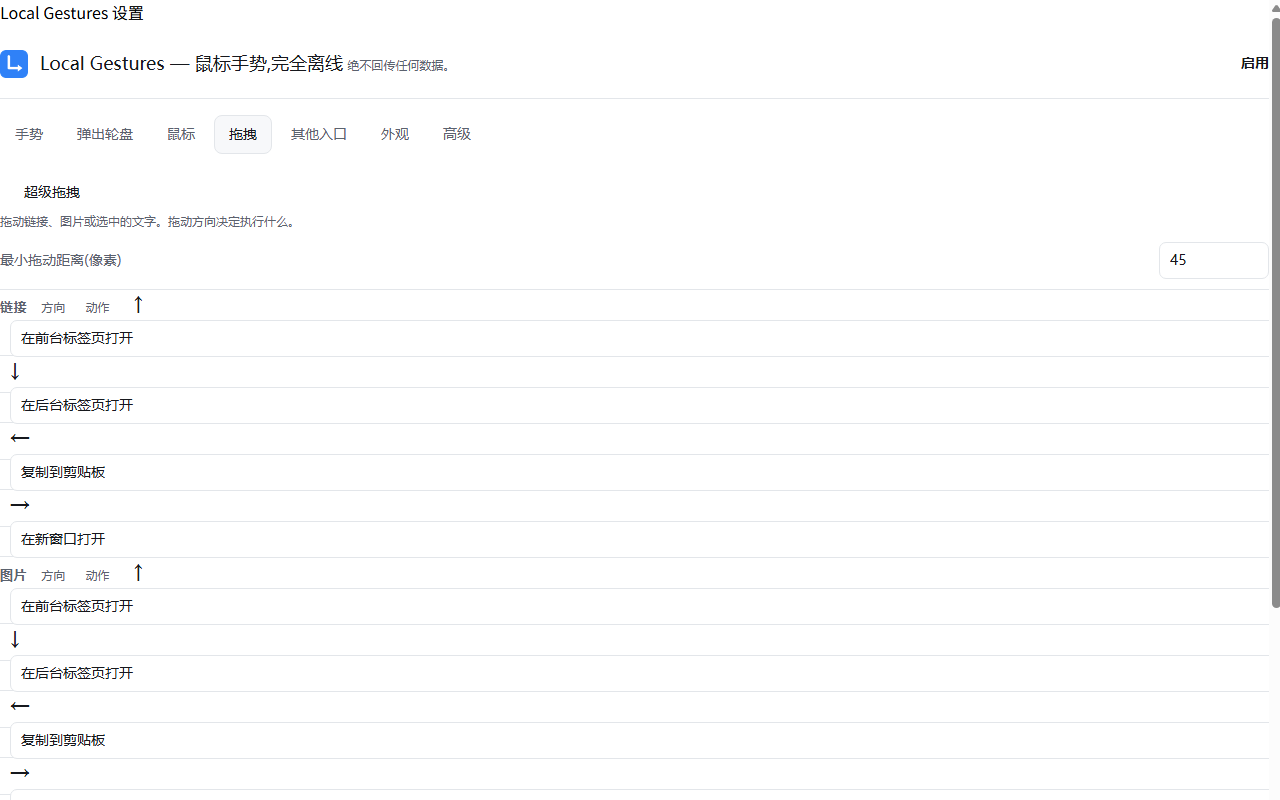
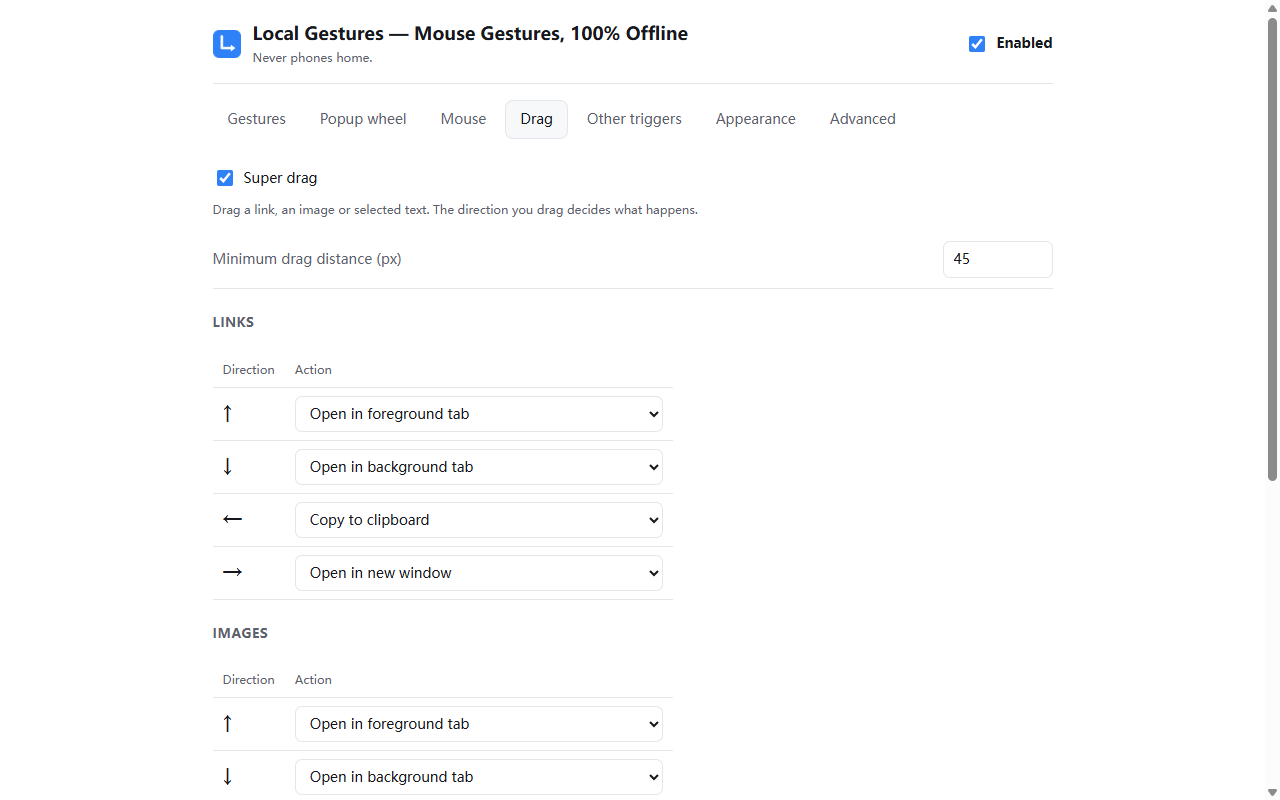
演示页支持英文;重出商店截图;修复右键菜单导致的偶发测试失败

diff --git a/tools/fixtures/demo.html b/tools/fixtures/demo.html
@@ -36,116 +36,132 @@
 </head>
 <body>
 <header>
-  <h1>Local Gestures — 功能演示</h1>
-  <p>在本页任意空白处按住<strong>鼠标右键</strong>画手势即可。松开右键执行,不弹右键菜单。</p>
+  <h1 data-en="Local Gestures — Live demo">Local Gestures — 功能演示</h1>
+  <p data-en="Hold the <strong>right mouse button</strong> anywhere on this page and draw. Release to run — no context menu appears.">在本页任意空白处按住<strong>鼠标右键</strong>画手势即可。松开右键执行,不弹右键菜单。</p>
 </header>
 
 <main>
-  <h2>① 笔画手势 · 在下面这块区域画</h2>
-  <div class="zone">按住右键,在这里画 ← 或 ↓→</div>
+  <h2 data-en="① Stroke gestures · draw inside the area below">① 笔画手势 · 在下面这块区域画</h2>
+  <div class="zone" data-en="Hold the right button and draw ← or ↓→ here">按住右键,在这里画 ← 或 ↓→</div>
   <div class="card">
     <table>
-      <thead><tr><th>手势</th><th>动作</th><th>怎么画</th></tr></thead>
+      <thead><tr><th data-en="Gesture">手势</th><th data-en="Action">动作</th><th data-en="How to draw">怎么画</th></tr></thead>
       <tbody>
-        <tr><td class="g">←</td><td>后退</td><td>按住右键向左划</td></tr>
-        <tr><td class="g">→</td><td>前进</td><td>按住右键向右划</td></tr>
-        <tr><td class="g">↑</td><td>滚到顶部</td><td>向上划</td></tr>
-        <tr><td class="g">↓</td><td>滚到底部</td><td>向下划</td></tr>
-        <tr><td class="g">↑↓</td><td>刷新</td><td>先上后下</td></tr>
-        <tr><td class="g">↓↑</td><td>恢复关闭的标签页</td><td>先下后上</td></tr>
-        <tr><td class="g">↓→</td><td>关闭标签页</td><td>先下后右(经典)</td></tr>
-        <tr><td class="g">↑→</td><td>新建标签页</td><td>先上后右</td></tr>
-        <tr><td class="g">←→</td><td>下一个标签页</td><td>先左后右</td></tr>
-        <tr><td class="g">→←</td><td>上一个标签页</td><td>先右后左</td></tr>
-        <tr><td class="g">↓←</td><td>复制标签页</td><td>先下后左</td></tr>
-        <tr><td class="g">↑←</td><td>固定 / 取消固定</td><td>先上后左</td></tr>
-        <tr><td class="g">→↓</td><td>静音 / 取消静音</td><td>先右后下</td></tr>
-        <tr><td class="g">←↑</td><td>重置缩放</td><td>先左后上</td></tr>
-        <tr><td class="g">→↑</td><td>切换全屏</td><td>先右后上</td></tr>
-        <tr><td class="g">←↓</td><td>新建窗口</td><td>先左后下</td></tr>
-        <tr><td class="g">→↑←</td><td>关闭其他标签页</td><td>三段手势</td></tr>
-        <tr><td class="g">←↓→</td><td>查看网页源码</td><td>三段手势</td></tr>
-        <tr><td class="g">↑↓↑</td><td>强制刷新</td><td>三段手势</td></tr>
+        <tr><td class="g">←</td><td data-en="Back">后退</td><td data-en="hold right, drag left">按住右键向左划</td></tr>
+        <tr><td class="g">→</td><td data-en="Forward">前进</td><td data-en="hold right, drag right">按住右键向右划</td></tr>
+        <tr><td class="g">↑</td><td data-en="Scroll to top">滚到顶部</td><td data-en="drag up">向上划</td></tr>
+        <tr><td class="g">↓</td><td data-en="Scroll to bottom">滚到底部</td><td data-en="drag down">向下划</td></tr>
+        <tr><td class="g">↑↓</td><td data-en="Reload">刷新</td><td data-en="up then down">先上后下</td></tr>
+        <tr><td class="g">↓↑</td><td data-en="Reopen closed tab">恢复关闭的标签页</td><td data-en="down then up">先下后上</td></tr>
+        <tr><td class="g">↓→</td><td data-en="Close tab">关闭标签页</td><td data-en="down then right (the classic)">先下后右(经典)</td></tr>
+        <tr><td class="g">↑→</td><td data-en="New tab">新建标签页</td><td data-en="up then right">先上后右</td></tr>
+        <tr><td class="g">←→</td><td data-en="Next tab">下一个标签页</td><td data-en="left then right">先左后右</td></tr>
+        <tr><td class="g">→←</td><td data-en="Previous tab">上一个标签页</td><td data-en="right then left">先右后左</td></tr>
+        <tr><td class="g">↓←</td><td data-en="Duplicate tab">复制标签页</td><td data-en="down then left">先下后左</td></tr>
+        <tr><td class="g">↑←</td><td data-en="Pin / unpin">固定 / 取消固定</td><td data-en="up then left">先上后左</td></tr>
+        <tr><td class="g">→↓</td><td data-en="Mute / unmute">静音 / 取消静音</td><td data-en="right then down">先右后下</td></tr>
+        <tr><td class="g">←↑</td><td data-en="Reset zoom">重置缩放</td><td data-en="left then up">先左后上</td></tr>
+        <tr><td class="g">→↑</td><td data-en="Toggle fullscreen">切换全屏</td><td data-en="right then up">先右后上</td></tr>
+        <tr><td class="g">←↓</td><td data-en="New window">新建窗口</td><td data-en="left then down">先左后下</td></tr>
+        <tr><td class="g">→↑←</td><td data-en="Close other tabs">关闭其他标签页</td><td data-en="three strokes">三段手势</td></tr>
+        <tr><td class="g">←↓→</td><td data-en="View page source">查看网页源码</td><td data-en="three strokes">三段手势</td></tr>
+        <tr><td class="g">↑↓↑</td><td data-en="Hard reload">强制刷新</td><td data-en="three strokes">三段手势</td></tr>
       </tbody>
     </table>
-    <p class="tip">画的时候会有蓝色轨迹,底部会实时显示将要执行的动作名。画到一半发现画错了,
+    <p class="tip" data-en="A blue trail follows the cursor and the action about to run is named at the bottom of the screen. Changed your mind mid-stroke? Scribble into a shape nothing is bound to and release — the hint turns red and nothing happens.">画的时候会有蓝色轨迹,底部会实时显示将要执行的动作名。画到一半发现画错了,
       随便乱划成一个没绑定的形状再松手即可 —— 提示会变红,不会执行任何动作。</p>
   </div>
 
-  <h2>② 摇杆手势 · 不用画</h2>
+  <h2 data-en="② Rocker gestures · nothing to draw">② 摇杆手势 · 不用画</h2>
   <div class="card">
     <table>
       <tbody>
-        <tr><td class="g">R→L</td><td><strong>按住右键,点一下左键</strong> → 后退</td></tr>
-        <tr><td class="g">L→R</td><td><strong>按住左键,点一下右键</strong> → 前进</td></tr>
+        <tr><td class="g">R→L</td><td data-en="<strong>Hold right, click left</strong> → back">
+          <strong>按住右键,点一下左键</strong> → 后退</td></tr>
+        <tr><td class="g">L→R</td><td data-en="<strong>Hold left, click right</strong> → forward">
+          <strong>按住左键,点一下右键</strong> → 前进</td></tr>
       </tbody>
     </table>
-    <p class="tip">这是最快的翻页方式,一只手就能连点。</p>
+    <p class="tip" data-en="The fastest way to move through history — one hand, repeatable.">这是最快的翻页方式,一只手就能连点。</p>
   </div>
 
-  <h2>③ 滚轮手势</h2>
+  <h2 data-en="③ Wheel gestures">③ 滚轮手势</h2>
   <div class="card">
-    <p><strong>按住右键不放,滚动滚轮</strong> —— 向上滚切上一个标签页,向下滚切下一个。</p>
-    <p class="tip">多开几个标签页再试,效果最明显。</p>
+    <p data-en="<strong>Hold the right button and turn the wheel</strong> — up switches to the previous tab, down to the next."><strong>按住右键不放,滚动滚轮</strong> —— 向上滚切上一个标签页,向下滚切下一个。</p>
+    <p class="tip" data-en="Open a few tabs first to see it.">多开几个标签页再试,效果最明显。</p>
   </div>
 
-  <h2>④ 超级拖拽 · 方向决定行为</h2>
+  <h2 data-en="④ Super drag · the direction picks the action">④ 超级拖拽 · 方向决定行为</h2>
   <div class="row2">
     <div class="drag">
-      <p><strong>拖这个链接:</strong></p>
+      <p data-en="<strong>Drag this link:</strong>"><strong>拖这个链接:</strong></p>
       <p><a href="https://example.com/">example.com</a></p>
-      <p class="tip">上=前台打开 · 下=后台打开 · 左=复制网址 · 右=新窗口打开</p>
+      <p class="tip" data-en="up = open · down = open in background · left = copy URL · right = open in a new window">上=前台打开 · 下=后台打开 · 左=复制网址 · 右=新窗口打开</p>
     </div>
     <div class="drag">
-      <p><strong>拖这张图:</strong></p>
-      <p><img src="pic.png" alt="演示图片"></p>
-      <p class="tip">上=前台打开 · 下=后台打开 · 左=复制地址 · 右=下载(需授权)</p>
+      <p data-en="<strong>Drag this image:</strong>"><strong>拖这张图:</strong></p>
+      <p><img src="pic.png" alt="demo image"></p>
+      <p class="tip" data-en="up = open · down = open in background · left = copy address · right = download (asks permission)">上=前台打开 · 下=后台打开 · 左=复制地址 · 右=下载(需授权)</p>
     </div>
   </div>
   <div class="drag" style="margin-top:16px">
-    <p><strong>选中这段文字然后拖走:</strong>鼠标手势扩展 隐私 开源</p>
-    <p class="tip">上=前台搜索 · 下=后台搜索 · 左=复制 · 右=后台搜索。
+    <p data-en="<strong>Select this text and drag it away:</strong> mouse gestures privacy open source"><strong>选中这段文字然后拖走:</strong>鼠标手势扩展 隐私 开源</p>
+    <p class="tip" data-en="up = search · down = search in background · left = copy · right = search in background. The search uses whatever default engine your browser is set to — this extension contains no search URL of its own.">上=前台搜索 · 下=后台搜索 · 左=复制 · 右=后台搜索。
       搜索用的是你 Chrome 里设的默认搜索引擎,扩展本身不含任何搜索网址。</p>
   </div>
 
-  <h2>⑤ 弹出轮盘(默认关闭,去设置里打开)</h2>
+  <h2 data-en="⑤ Popup wheel (off by default — enable it in settings)">⑤ 弹出轮盘(默认关闭,去设置里打开)</h2>
   <div class="card">
-    <p><strong>按住右键别动</strong>,约 0.35 秒后光标周围会展开 8 个动作,移向其中一个松手即可。</p>
-    <p class="tip">松手时如果还在圆心附近,就是取消,什么都不会发生。</p>
+    <p data-en="<strong>Hold the right button still</strong> and after about 0.35 s eight actions fan out around the cursor. Move onto one and release."><strong>按住右键别动</strong>,约 0.35 秒后光标周围会展开 8 个动作,移向其中一个松手即可。</p>
+    <p class="tip" data-en="Release near the centre and nothing happens — that is the cancel.">松手时如果还在圆心附近,就是取消,什么都不会发生。</p>
   </div>
 
-  <h2>⑥ 其他入口</h2>
+  <h2 data-en="⑥ Other triggers">⑥ 其他入口</h2>
   <div class="card">
     <table>
       <tbody>
-        <tr><td><strong>双击</strong></td><td>页面空白处双击执行动作(默认关闭)。双击文字仍然是选词,不会误触发。</td></tr>
-        <tr><td><strong>简单拖拽</strong></td><td>空白处按左键直线拖动(默认关闭,因为会和选文字冲突)。</td></tr>
-        <tr><td><strong>快捷键</strong></td><td><code>Alt+Shift+1~4</code>,四个槽位各绑一个动作。</td></tr>
-        <tr><td><strong>右键菜单</strong></td><td>可把常用动作加进右键菜单(默认关闭)。</td></tr>
-        <tr><td><strong>工具栏图标</strong></td><td>点击执行指定动作,默认是打开设置。</td></tr>
-        <tr><td><strong>触摸屏</strong></td><td>双指手势,和鼠标共用同一张手势表(默认关闭)。</td></tr>
+        <tr><td data-en="<strong>Double click</strong>"><strong>双击</strong></td><td data-en="Runs an action when you double-click empty page area (off by default). Double-clicking text still selects the word.">页面空白处双击执行动作(默认关闭)。双击文字仍然是选词,不会误触发。</td></tr>
+        <tr><td data-en="<strong>Simple drag</strong>"><strong>简单拖拽</strong></td><td data-en="Straight left-button drag on empty area (off by default — it competes with selecting text).">空白处按左键直线拖动(默认关闭,因为会和选文字冲突)。</td></tr>
+        <tr><td data-en="<strong>Keyboard shortcuts</strong>"><strong>快捷键</strong></td><td data-en="<code>Alt+Shift+1~4</code> — four slots, one action each."><code>Alt+Shift+1~4</code>,四个槽位各绑一个动作。</td></tr>
+        <tr><td data-en="<strong>Context menu</strong>"><strong>右键菜单</strong></td><td data-en="Chosen actions can be added to the right-click menu (off by default).">可把常用动作加进右键菜单(默认关闭)。</td></tr>
+        <tr><td data-en="<strong>Toolbar icon</strong>"><strong>工具栏图标</strong></td><td data-en="Clicking it runs an action of your choice; opens settings by default.">点击执行指定动作,默认是打开设置。</td></tr>
+        <tr><td data-en="<strong>Touch screen</strong>"><strong>触摸屏</strong></td><td data-en="Two-finger gestures, sharing the same gesture table as the mouse (off by default).">双指手势,和鼠标共用同一张手势表(默认关闭)。</td></tr>
       </tbody>
     </table>
   </div>
 
-  <h2>⑦ 隐私这块可以自己验证</h2>
+  <h2 data-en="⑦ The privacy claim is yours to check">⑦ 隐私这块可以自己验证</h2>
   <div class="card">
-    <p>整个扩展没有任何联网代码。在源码目录里跑这一行就能自己确认:</p>
+    <p data-en="There is no networking code in the extension at all. One command in the source directory confirms it:">整个扩展没有任何联网代码。在源码目录里跑这一行就能自己确认:</p>
     <p><code>grep -rn "fetch(\|XMLHttpRequest\|WebSocket\|sendBeacon" src/</code></p>
-    <p class="tip">应该只匹配到注释里那句「绝不联网」的声明。权限里也没有
+    <p class="tip" data-en="The only match should be the comment stating that there are none. The manifest has no <code>host_permissions</code>, no <code>webRequest</code>, no <code>history</code>. Downloads and bookmarks are optional permissions, not requested at install — if you never use them, you are never asked.">应该只匹配到注释里那句「绝不联网」的声明。权限里也没有
       <code>host_permissions</code>、没有 <code>webRequest</code>、没有 <code>history</code>。
       下载和书签是可选权限,默认不申请,你不用就永远不会被要。</p>
   </div>
 
-  <h2>下面是填充内容,用来测试滚动手势</h2>
+  <h2 data-en="Filler below, so the scroll gestures have somewhere to go">下面是填充内容,用来测试滚动手势</h2>
   <div class="filler" id="filler"></div>
 </main>
 
 <script>
-  const f = document.getElementById('filler');
-  for (let i = 1; i <= 60; i++) {
-    const p = document.createElement('p');
-    p.textContent = '第 ' + i + ' 行 —— 往下拉,然后按住右键向上划试试「滚到顶部」。';
+  // ?lang=en swaps every data-en string in place. Kept as attributes on the
+  // real elements rather than a second copy of the page, so the two languages
+  // cannot drift into showing different features.
+  var EN = new URLSearchParams(location.search).get('lang') === 'en';
+  if (EN) {
+    document.documentElement.lang = 'en';
+    document.title = 'Local Gestures — Live demo';
+    document.querySelectorAll('[data-en]').forEach(function (el) {
+      el.innerHTML = el.getAttribute('data-en');
+    });
+  }
+
+  var f = document.getElementById('filler');
+  for (var i = 1; i <= 60; i++) {
+    var p = document.createElement('p');
+    p.textContent = EN
+      ? 'Line ' + i + ' — scroll down, then hold right and drag up for "scroll to top".'
+      : '第 ' + i + ' 行 —— 往下拉,然后按住右键向上划试试「滚到顶部」。';
     f.appendChild(p);
   }
 </script>

diff --git a/tools/manual_check.py b/tools/manual_check.py
@@ -1,0 +1,98 @@
+# -*- coding: utf-8 -*-
+"""Open a browser with the extension loaded, for the checks in MANUAL-CHECKS.md.
+
+Not driven by Playwright — Playwright owns the browser process it launches and
+kills it when the script ends, which is the opposite of what is wanted here.
+So the binary is started directly and the script just keeps the local test
+page served until the window is closed.
+
+The browser is Playwright's Chromium rather than the installed Chrome because
+Chrome 137 dropped --load-extension and Chrome 150 ignores it even with
+--enable-unsafe-extension-debugging (verified: developerPrivate reports no
+extensions installed). That leaves exactly one browser that can still load an
+unpacked extension without a manual click-through.
+
+The profile is kept between runs, so permissions granted and settings changed
+during a check session are still there next time.
+"""
+import subprocess
+import sys
+import threading
+from functools import partial
+from http.server import SimpleHTTPRequestHandler, ThreadingHTTPServer
+from pathlib import Path
+
+from playwright.sync_api import sync_playwright
+
+sys.stdout.reconfigure(encoding="utf-8")
+
+HERE = Path(__file__).parent
+EXT = HERE.parent
+WWW = HERE / "fixtures"
+PROFILE = Path.home() / ".local-gestures-manual-profile"
+
+
+class Quiet(SimpleHTTPRequestHandler):
+    def end_headers(self):
+        self.send_header("Cache-Control", "no-store")
+        super().end_headers()
+
+    def log_message(self, *a):
+        pass
+
+
+srv = ThreadingHTTPServer(("127.0.0.1", 0), partial(Quiet, directory=str(WWW)))
+threading.Thread(target=srv.serve_forever, daemon=True).start()
+BASE = f"http://127.0.0.1:{srv.server_address[1]}"
+
+with sync_playwright() as p:
+    exe = p.chromium.executable_path
+PROFILE.mkdir(parents=True, exist_ok=True)
+
+print(f"""
+================================================================
+  人工验证浏览器已启动 —— 扩展已加载,配置会保留
+================================================================
+
+演示页:{BASE}/demo.html
+
+要点的 7 项在 MANUAL-CHECKS.md,按顺序:
+
+  1. 新建无痕窗口 —— 唯一可能真是 bug 的一项,先测这个
+       设置页 → 手势 → 把 ↑← 改成「新建无痕窗口」→ 在网页上画
+       期望:弹出无痕窗口,原窗口一切正常,没崩
+
+  2. 打印 —— 绑一个手势到「打印」,画出来
+       期望:弹出打印预览,Esc 关掉后页面正常
+
+  3. 键盘快捷键 —— 直接按 Alt+Shift+1
+       期望:恢复最近关闭的标签页
+
+  4. 右键菜单 —— 设置页 → 其他入口 → 打开「加进右键菜单」,然后点右键
+       期望:出现 Local Gestures 子菜单,点了能执行
+
+  5. 工具栏图标 —— 点右上角拼图 🧩 钉住图标,再点图标
+       期望:打开设置页
+
+  6. 可选权限 —— 设置页 → 高级 → 勾「下载」
+       期望:弹出授权框;允许后把某个拖拽方向设成下载,拖张图试试
+
+  7. 触摸手势 —— 有触摸屏才测
+
+关掉浏览器窗口,这个脚本就结束。
+================================================================
+""")
+
+proc = subprocess.Popen([
+    exe,
+    f"--user-data-dir={PROFILE}",
+    f"--disable-extensions-except={EXT}",
+    f"--load-extension={EXT}",
+    "--no-first-run", "--no-default-browser-check",
+    f"{BASE}/demo.html",
+])
+try:
+    proc.wait()
+finally:
+    srv.shutdown()
+print("浏览器已关闭。")

diff --git a/tools/e2e_test.py b/tools/e2e_test.py
@@ -83,6 +83,22 @@ for old in PROFILE.parent.glob("lg-test-profile-*"):
         shutil.rmtree(old, ignore_errors=True)
 
 
+def dismiss_menu(page):
+    """Close the native context menu before measuring anything else.
+
+    Whenever the extension deliberately stands down (excluded site, master
+    switch off) the browser's own menu opens instead. An open native menu
+    swallows the next mouse press, so the following gesture silently does
+    nothing and the assertion after it fails — intermittently, depending on
+    how fast Escape lands. Escape alone proved not to be enough; a click on
+    empty page area is the belt to that suspenders.
+    """
+    page.keyboard.press("Escape")
+    page.wait_for_timeout(200)
+    page.mouse.click(700, 500)   # the same empty spot every gesture starts from
+    page.wait_for_timeout(300)
+
+
 def gesture(page, path, button="right", step=14):
     """Draw a stroke through the given waypoints."""
     x0, y0 = path[0]
@@ -741,7 +757,7 @@ with sync_playwright() as p:
     page.mouse.up(button="right")
     page.wait_for_timeout(400)
     check("单纯右键仍弹菜单", page.evaluate("() => window.__ctx") == 1)
-    page.keyboard.press("Escape")
+    dismiss_menu(page)
 
     # unbound gesture must do nothing
     page.goto(f"{BASE}/a.html")
@@ -1029,11 +1045,7 @@ with sync_playwright() as p:
     page.wait_for_timeout(600)
     gesture(page, [(700, 500), (350, 500)])
     check("排除列表命中时不响应", page.url.endswith("b.html"), page.url)
-    # When the extension stands down, the real context menu opens — and an
-    # open menu swallows the next mouse press. Dismiss it or the following
-    # assertion measures the menu, not the extension.
-    page.keyboard.press("Escape")
-    page.wait_for_timeout(300)
+    dismiss_menu(page)
 
     print("     [diag] history.length =", page.evaluate("() => history.length"))
     cfg_set(excludes=["*never-match-me*"])
@@ -1044,7 +1056,7 @@ with sync_playwright() as p:
     if not hot_ok:
         # Distinguish "hot reload is broken" from "something else": if a
         # fresh page obeys the new config, only the live update failed.
-        page.keyboard.press("Escape")
+        dismiss_menu(page)
         page.reload()
         page.wait_for_load_state()
         page.wait_for_timeout(600)
@@ -1061,8 +1073,7 @@ with sync_playwright() as p:
     page.wait_for_timeout(500)
     gesture(page, [(700, 500), (350, 500)])
     check("总开关关闭后手势失效", page.url.endswith("b.html"), page.url)
-    page.keyboard.press("Escape")
-    page.wait_for_timeout(300)
+    dismiss_menu(page)
 
     cfg_set(enabled=True)
     page.wait_for_timeout(500)

diff --git a/tools/gen_screenshots.py b/tools/gen_screenshots.py
@@ -98,6 +98,9 @@ def worker(ctx, page):
 for locale, tag in LOCALES:
     print(f"\n=== {locale} ===")
     profile = Path(gettempdir()) / f"lg-shot-{tag}-{int(time.time())}"
+    # The extension localises itself from --lang, but the page behind it is a
+    # fixture and would otherwise stay Chinese in the English screenshots.
+    demo = f"{BASE}/demo.html" + ("?lang=en" if tag == "en" else "")
 
     with sync_playwright() as p:
         ctx = p.chromium.launch_persistent_context(
@@ -115,7 +118,7 @@ for locale, tag in LOCALES:
         )
         try:
             page = ctx.pages[0] if ctx.pages else ctx.new_page()
-            page.goto(f"{BASE}/demo.html")
+            page.goto(demo)
             page.wait_for_timeout(1200)
             sanity(page)
 
@@ -147,7 +150,7 @@ for locale, tag in LOCALES:
             sw.evaluate("() => chrome.storage.local.set("
                         "{ popupEnabled: true, popupDelay: 250 })")
             page.wait_for_timeout(500)
-            page.goto(f"{BASE}/demo.html")
+            page.goto(demo)
             page.wait_for_timeout(900)
             page.mouse.move(640, 420)
             page.mouse.down(button="right")
@@ -174,7 +177,7 @@ for locale, tag in LOCALES:
 
             opt.locator("#tabs .tab").nth(6).click()
             opt.wait_for_timeout(500)
-            shoot(opt, OUT / tag / "5-settings-privacy.png")
+            shoot(opt, OUT / tag / "5-settings-advanced.png")
         finally:
             ctx.close()
 
